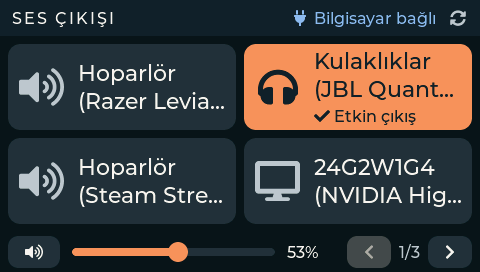
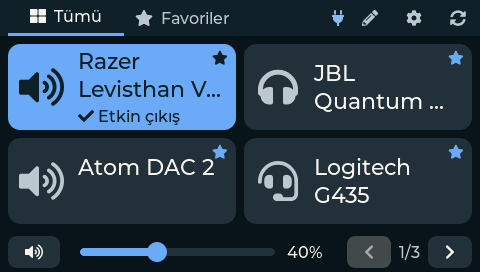
docs(images): LCD screenshots of M7 from the board, README gallery (#60)
New framebuffer captures from the board, firmware and host
v0.7.0-beta.2 (e46f5ee): layout A (Tümü, Favoriler, muted), layouts B
and C, settings page, waiting screen (unchanged since 41bfed5). The
development-branch simulator shots sim-m7-* are removed; the
presentation screens sim-pitch-* stay.

diff --git a/docs/images/README.md b/docs/images/README.md
@@ -9,11 +9,22 @@ Exact captures of the LCD: the framebuffer dumped over SWD and converted
 with `tools/fb2png.py` (see `docs/toolchain.md`). Prefer these over phone
 photos.
 
-| File | Screen | Firmware |
-|---|---|---|
-| `ui-main-screen.png` | Device list, active device, volume strip | `main` at `41bfed5`, default build (#48) |
-| `ui-muted.png` | Same screen, muted | as above |
-| `ui-waiting-for-host.png` | No computer connected | as above |
+Taken 2026-10-16 on firmware v0.7.0-beta.2 (`e46f5ee`, Release; the board's
+flash was read back and is identical to the release `.bin`), host
+v0.7.0-beta.2, with the developer's own Windows outputs and aliases. Dark
+theme, blue accent, volume 40 %. The capture reads the framebuffer the LTDC
+shows (`LTDC_L1CFBAR`, `0x400168AC`); a dump taken while the screen changes
+mixes two frames, so only dumps of a still screen are kept.
+
+| File | Screen |
+|---|---|
+| `ui-main-screen.png` | Layout A (cards, 2×2), "Tümü" tab, page 1 of 3, active device |
+| `ui-favorites.png` | Layout A, "Favoriler" tab |
+| `ui-muted.png` | Layout A, "Favoriler" tab, muted (mute set with `stm32-audio-host mute on`) |
+| `ui-layout-list.png` | Layout B (list), side rail, vertical volume slider |
+| `ui-layout-tiles.png` | Layout C (large tile for the active device, tiles for the others) |
+| `ui-settings.png` | Settings page, top |
+| `ui-waiting-for-host.png` | No host program connected (tray program closed); identical to the M6 capture of `41bfed5` |
 
 - Use descriptive lowercase names with the `ui-` prefix, e.g.
   `ui-volume.png`.
@@ -27,21 +38,11 @@ which runs the same `firmware/ui` code and writes the same RGB565
 framebuffer format as the board. They show layout, not the panel: colours
 and speed on the real LCD are REQUIRES HARDWARE. Prefix `sim-`.
 
-| File | Screen | Source |
-|---|---|---|
-| `sim-m7-light-blue.png` | Light theme, blue accent, tabs, favorites | `main` at `aa6ebc1`, `23-light-blue` (#60) |
-| `sim-m7-dark-green.png` | Dark theme, green accent | as above, `24-dark-green` |
-| `sim-m7-grid-3x2.png` | 3×2 cards | as above, `25-grid-3x2` |
-| `sim-m7-list.png` | List layout | as above, `27-grid-list` |
-| `sim-m7-settings.png` | Settings page, dark theme | branch `feature/60-settings-page`, `40-settings` (#60) |
-| `sim-m7-settings-light.png` | Settings page after choosing the light theme and blue accent | as above, `41-settings-light-blue` |
-| `sim-m7-edit.png` | Edit mode after a star and a move (light theme, green accent) | branch `feature/60-edit-mode`, `62-edit-moved` (#60) |
-| `sim-m7-keyboard.png` | Alias keyboard, Turkish layout, "Oyunı" typed | as above, `64-keyboard-typed` |
-| `sim-m7-layout-list.png` | Layout B (list), dark theme | branch `feature/60-layouts`, `70-list` (#60) |
-| `sim-m7-layout-tiles.png` | Layout C (large tile), dark theme | as above, `73-tiles` |
-
-The light theme with blue accent and the 3×2 grid were also checked on the
-board on 2026-10-15 (`docs/hardware.md`, issue #60).
+The simulator screenshots of the development branches (`sim-m7-*`) were
+removed on 2026-10-16: the LCD screenshots above replace them. The CI
+artifact `ui-screenshots` of the *UI Simulator and Link CI* job has the
+current simulator output. The light theme with blue accent and the 3×2
+grid were checked on the board on 2026-10-15 (`docs/hardware.md`, #60).
 
 ### Presentation screens
 

diff --git a/README.md b/README.md
@@ -45,7 +45,17 @@ version 2, ADR-004), tray program and installer. Milestones:
 [`docs/presentation/stm32-ses-kumandasi.pdf`](docs/presentation/stm32-ses-kumandasi.pdf)
 (source and image list: [`docs/images/README.md`](docs/images/README.md)).
 
-![Main screen on the LCD](docs/images/ui-main-screen.png)
+![Main screen on the LCD: layout A, dark theme](docs/images/ui-main-screen.png)
+
+<p>
+  <img src="docs/images/ui-layout-list.png" width="32%" alt="Layout B: list with side rail and vertical volume slider">
+  <img src="docs/images/ui-layout-tiles.png" width="32%" alt="Layout C: large tile for the active device">
+  <img src="docs/images/ui-settings.png" width="32%" alt="Settings page">
+</p>
+
+LCD screenshots from the board (framebuffer read over SWD), firmware and
+host v0.7.0-beta.2: layout A, layouts B and C, the settings page. More:
+[`docs/images/README.md`](docs/images/README.md).
 
 | Part | State |
 |---|---|
